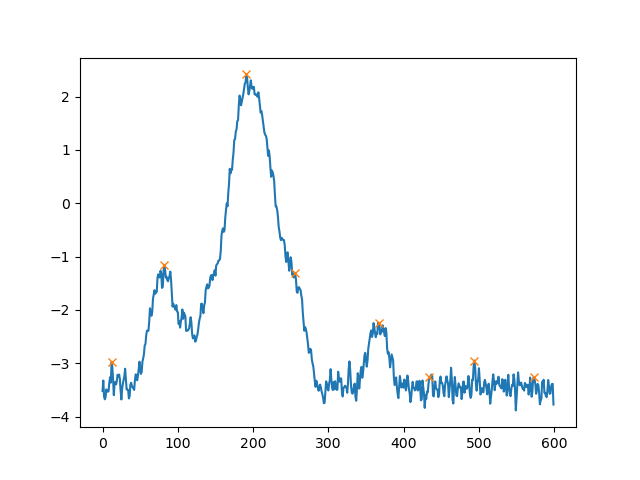
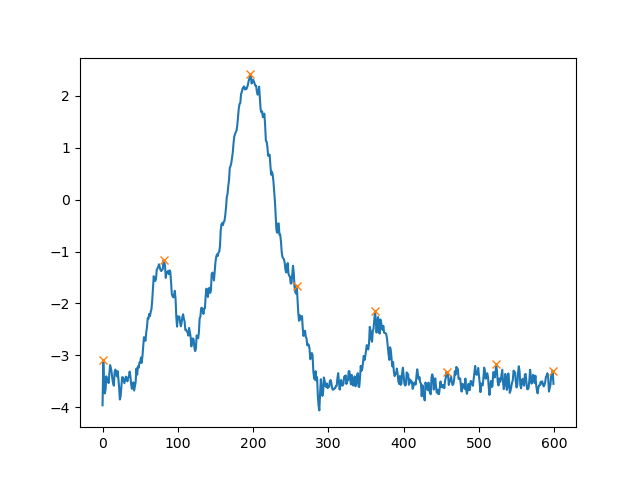
Rematch BDCNN, score 11.60

diff --git a/bdn/backbone.py b/bdn/backbone.py
@@ -16,24 +16,24 @@ class BDCNN(nn.Module):
         if input_sample == 640:
             ## 第一层卷积
             self.conv1 = nn.Sequential(
-                # 输入[1,320,600]
+                # 输入[2,320,600]
                 nn.Conv2d(
                     in_channels=2,    # 输入图片的高度
                     out_channels=64,  # 输出图片的高度
-                    kernel_size=(22,35),    # 16*35的卷积核，相当于过滤器
+                    kernel_size=(22,35),    # 22*35的卷积核，相当于过滤器
                     stride=(10,5),         # 卷积核在图上滑动，每隔个扫一次
                     padding=(6,0),        # 给图外边补上0
                 ),
                 nn.Conv2d(
                     in_channels=64,    # 输入图片的高度
                     out_channels=64,  # 输出图片的高度
-                    kernel_size=(7,15),    # 16*35的卷积核，相当于过滤器
+                    kernel_size=(7,15),    # 7*15的卷积核，相当于过滤器
                     stride=1,         # 卷积核在图上滑动，每隔一个扫一次
                     padding=(2,2),        # 给图外边补上0
                 ),
-                # 经过卷积层 输出[32,32,104] 传入池化层
+                # 经过卷积层 输出[64,30,104] 传入池化层
                 nn.ReLU(),
-                nn.MaxPool2d(kernel_size=(3, 3))   # 经过池化 输出[32,16,52] 传入下一个卷积
+                nn.MaxPool2d(kernel_size=(3, 3))   # 经过池化 输出[64,10,34] 传入下一个卷积
             )
             ## 第二层卷积
             self.conv2 = nn.Sequential(
@@ -49,13 +49,15 @@ class BDCNN(nn.Module):
                     out_channels=256,
                     kernel_size=(3,7),
                     stride=1,
+                    # padding=(0,1)
                     padding=0
                 ),
-                # 经过卷积 输出[64, 14, 44] 传入池化层
+                # 经过卷积 输出[256, 6, 24] 传入池化层
                 nn.ReLU(),
-                nn.MaxPool2d(kernel_size=(1,3))  # 经过池化 输出[64,14,22] 传入输出层
+                nn.MaxPool2d(kernel_size=(1,3))  # 经过池化 输出[256,6,8] 传入输出层
             )
             ## 输出层
+            # self.linear1 = nn.Sequential(nn.Linear(in_features=256*6*8, out_features=8192), 
             self.linear1 = nn.Sequential(nn.Linear(in_features=256*6*7, out_features=8192), 
                                             nn.ReLU(),
                                             nn.Dropout(0.5)
@@ -66,7 +68,7 @@ class BDCNN(nn.Module):
                                             )
             self.linear3 = nn.Linear(in_features=4096, out_features=output_size)
             # softmax输出分类
-            self.softmax = nn.Softmax(dim=1)
+            # self.softmax = nn.Softmax(dim=1)
         else:
             ## 第一层卷积
             self.conv1 = nn.Sequential(
@@ -118,9 +120,133 @@ class BDCNN(nn.Module):
                                             nn.ReLU(),
                                             nn.Dropout(0.5)
                                             )
+            self.linear3 = nn.Linear(in_features=4096, out_features=output_size) # batch_size * output_size
+            # softmax输出分类
+            # self.softmax = nn.Softmax(dim=1)
+
+    def forward(self, x):
+        x = self.conv1(x)
+        x = self.conv2(x)           # [batch, 64,14,22]
+        x = x.view(x.size(0), -1)   # 保留batch, 将后面的乘到一起 [batch, 64*14*22]
+        linear_o1 = self.linear1(x)     # 输出[50,10]
+        linear_o2 = self.linear2(linear_o1)     # 输出[50,10]
+        linear_o3 = self.linear3(linear_o2)     # 输出[50,10]
+        # output = self.softmax(linear_o3) # 输出[50,10]
+        return linear_o3
+
+class BDCNN_ND(nn.Module): # 无dropout
+    def __init__(self, input_sample=640, output_size=600):
+        super(BDCNN_ND, self).__init__()   # 继承__init__功能
+        if input_sample == 640:
+            ## 第一层卷积
+            self.conv1 = nn.Sequential(
+                # 输入[2,320,600]
+                nn.Conv2d(
+                    in_channels=2,    # 输入图片的高度
+                    out_channels=64,  # 输出图片的高度
+                    kernel_size=(22,35),    # 22*35的卷积核，相当于过滤器
+                    stride=(10,5),         # 卷积核在图上滑动，每隔个扫一次
+                    padding=(6,0),        # 给图外边补上0
+                ),
+                nn.Conv2d(
+                    in_channels=64,    # 输入图片的高度
+                    out_channels=64,  # 输出图片的高度
+                    kernel_size=(7,15),    # 7*15的卷积核，相当于过滤器
+                    stride=1,         # 卷积核在图上滑动，每隔一个扫一次
+                    padding=(2,2),        # 给图外边补上0
+                ),
+                # 经过卷积层 输出[64,30,104] 传入池化层
+                nn.ReLU(),
+                nn.MaxPool2d(kernel_size=(3, 3))   # 经过池化 输出[64,10,34] 传入下一个卷积
+            )
+            ## 第二层卷积
+            self.conv2 = nn.Sequential(
+                nn.Conv2d(
+                    in_channels=64,    # 同上
+                    out_channels=128,
+                    kernel_size=(3,7),
+                    stride=1,
+                    padding=0
+                ),
+                nn.Conv2d(
+                    in_channels=128,    # 同上
+                    out_channels=256,
+                    kernel_size=(3,7),
+                    stride=1,
+                    # padding=(0,1)
+                    padding=0
+                ),
+                # 经过卷积 输出[256, 6, 24] 传入池化层
+                nn.ReLU(),
+                nn.MaxPool2d(kernel_size=(1,3))  # 经过池化 输出[256,6,8] 传入输出层
+            )
+            ## 输出层
+            # self.linear1 = nn.Sequential(nn.Linear(in_features=256*6*8, out_features=8192), 
+            self.linear1 = nn.Sequential(nn.Linear(in_features=256*6*7, out_features=8192), 
+                                            nn.ReLU(),
+                                            # nn.Dropout(0.5)
+                                            )
+            self.linear2 = nn.Sequential(nn.Linear(in_features=8192, out_features=4096), 
+                                            nn.ReLU(),
+                                            # nn.Dropout(0.5)
+                                            )
             self.linear3 = nn.Linear(in_features=4096, out_features=output_size)
             # softmax输出分类
-            self.softmax = nn.Softmax(dim=1)
+            # self.softmax = nn.Softmax(dim=1)
+        else:
+            ## 第一层卷积
+            self.conv1 = nn.Sequential(
+                # 输入[1,320,600]
+                nn.Conv2d(
+                    in_channels=2,    # 输入图片的高度
+                    out_channels=64,  # 输出图片的高度
+                    kernel_size=(18,35),    # 16*35的卷积核，相当于过滤器
+                    stride=(4,5),         # 卷积核在图上滑动，每隔个扫一次
+                    padding=(6,0),        # 给图外边补上0
+                ),
+                nn.Conv2d(
+                    in_channels=64,    # 输入图片的高度
+                    out_channels=64,  # 输出图片的高度
+                    kernel_size=(7,15),    # 16*35的卷积核，相当于过滤器
+                    stride=1,         # 卷积核在图上滑动，每隔一个扫一次
+                    padding=(2,2),        # 给图外边补上0
+                ),
+                # 经过卷积层 输出[32,32,104] 传入池化层
+                nn.ReLU(),
+                nn.MaxPool2d(kernel_size=(1, 3))   # 经过池化 输出[32,16,52] 传入下一个卷积
+            )
+            ## 第二层卷积
+            self.conv2 = nn.Sequential(
+                nn.Conv2d(
+                    in_channels=64,    # 同上
+                    out_channels=128,
+                    kernel_size=(3,7),
+                    stride=1,
+                    padding=0
+                ),
+                nn.Conv2d(
+                    in_channels=128,    # 同上
+                    out_channels=256,
+                    kernel_size=(3,7),
+                    stride=1,
+                    padding=(0,1)
+                ),
+                # 经过卷积 输出[64, 14, 44] 传入池化层
+                nn.ReLU(),
+                nn.MaxPool2d(kernel_size=(4,3))  # 经过池化 输出[64,14,22] 传入输出层
+            )
+            ## 输出层
+            self.linear1 = nn.Sequential(nn.Linear(in_features=256*4*8, out_features=8192), 
+                                            nn.ReLU(),
+                                            # nn.Dropout(0.5)
+                                            )
+            self.linear2 = nn.Sequential(nn.Linear(in_features=8192, out_features=4096), 
+                                            nn.ReLU(),
+                                            # nn.Dropout(0.5)
+                                            )
+            self.linear3 = nn.Linear(in_features=4096, out_features=output_size)
+            # softmax输出分类
+            # self.softmax = nn.Softmax(dim=1)
 
     def forward(self, x):
         x = self.conv1(x)

diff --git a/bdn/csi_bd.py b/bdn/csi_bd.py
@@ -17,7 +17,7 @@ import pickle
 from scipy.signal import find_peaks, savgol_filter
 
 # from bdn.loss import NMSE_cuda, NMSELoss, CosSimilarity, rho
-from bdn.backbone import RegLSTM, BDCNN, BDCNNold
+from bdn.backbone import RegLSTM, BDCNN, BDCNNold, BDCNN_ND
 from bdn.data_old import load_data
 from bdn.data import load_data_from_txt, save_data_to_txt
 import matplotlib.pyplot as plt
@@ -133,14 +133,15 @@ class CNN_trainer():
             # train001_180 = './chusai_data/TestData/train_shuffle_loader_stdampfft_stdamp_gaussianlabelsig1_180_nostretch.pkl'
             # train001_180 = './chusai_data/TestData/train_shuffle_loader_stdampfft_stdamp_gaussianlabelsig1_180ronly001_nostretch.pkl'
             # train001_180 = './chusai_data/TestData/train_shuffle_stdampfft_stdamp_indepStdDiffPha_gaussianlabelsig1_180ronly001_nostretch.pkl'
-            train001_180 = './chusai_data/TestData/train_shuffle_stdampfft_nostdamp_indepStdDiffPha_gaussianlabelsig100_180only001_nostretch.pkl'
+            train001_180 = './chusai_data/TestData/train_shuffle_stdampfft_nostdamp_indepStdDiffPha_gaussianlabelsig100_180only001_nostretch.pkl' #best
             # train90320 = './chusai_data/TestData/train_shuffle_loader_stdfft_gaussianlabelsig1_90320.pkl'
             train90320 = './chusai_data/TestData/train_shuffle_loader_stdfft_gaussianlabelsig1_90320_more_reasonable_fftstretch.pkl'
             # train002009_640 = './chusai_data/TestData/train_shuffle_640_colStdAmpFft_stdAmp_gausssig100.pkl'
             # train002009_640 = './chusai_data/TestData/train_shuffle_640_colStdAmpFft_stdAmp_deltaphase_gausssig100.pkl'
             # train002009_640 = './chusai_data/TestData/train_shuffle_640_colStdAmpFft_stdAmp_diffphase_gausssig100.pkl'
-            train002009_640 = './chusai_data/TestData/train_shuffle_640_colStdAmpFft_stdAmp_indepStdDiffPhase_gausssig100.pkl'
-            train_pkl = train001_180
+            train002009_640 = './chusai_data/TestData/train_shuffle_640_colStdAmpFft_stdAmp_indepStdDiffPhase_gausssig100.pkl' # best
+            # train002009_640 = './chusai_data/TestData/train_shuffle_640_colStdAmpFft_stdAmp_indepStdDiffPhase_gausssig25.pkl' # bad
+            train_pkl = train002009_640
             if os.path.exists(train_pkl):
                 print('Loading train_shuffle_loader...')
                 with open(train_pkl, 'rb') as f:
@@ -247,7 +248,12 @@ class CNN_trainer():
                                 # print("cfg['Np'].shape:", cfg['Np'].shape)
                                 # print("cfg['Np']:", cfg['Np'])
                                 # 用find_peaks求output[iBatch]的峰值索引
-                                idx, _ = find_peaks(output[iBatch].cpu().numpy(), distance=3/self.BPMresol)
+                                if self.no_sample % 90 == 0:
+                                    output_sg = savgol_filter(output[iBatch].cpu().numpy(), 5, 3)
+                                    idx, _ = find_peaks(output_sg, distance=6/self.BPMresol) # 3x30场景，复赛间隔6
+                                else:
+                                    output_sg = output[iBatch].cpu().numpy()
+                                    idx, _ = find_peaks(output_sg, distance=3/self.BPMresol)
                                 # 对峰值索引对应的output[iBatch]值进行降序排序
                                 highestPeak = torch.argsort(-output[iBatch][idx]).cpu()
                                 # 获得最高的Np个峰值索引，从而得到呼吸率估计值，转换成tensor
@@ -307,13 +313,15 @@ class CNN_trainer():
                 x_in = x_in.cuda()
                 # x_in = torch.unsqueeze(x_in, 1) # [batch=1, 1, 320, 600]
                 if self.net == "BDCNN":
-                    avg_time = 10
+                    avg_time = 1
                     pred_val_list = []
-                    for iAvg in range(avg_time):
+                    for _ in range(avg_time):
                         output = self.model(x_in).squeeze()
                         if self.no_sample % 90 == 0:
                             output_sg = savgol_filter(output.cpu().numpy(), 5, 3)
-                            idx, _ = find_peaks(output_sg, distance=6/self.BPMresol)
+                            # output_sg = savgol_filter(output.cpu().numpy(), 8, 7) #不如5,3
+                            # output_sg = output.cpu().numpy()
+                            idx, _ = find_peaks(output_sg, distance=6/self.BPMresol) # 3x30场景，复赛间隔6
                             if not os.path.exists('find_peaks_Np3.png') and cfg['Np'] == 3:
                                 plt.figure()
                                 plt.plot(output_sg)
@@ -325,13 +333,24 @@ class CNN_trainer():
                                 plt.plot(idx, output_sg[idx], 'x')
                                 plt.savefig('find_peaks_Np2.png')
                         else:
-                            idx, _ = find_peaks(output.cpu().numpy(), distance=3/self.BPMresol)
+                            output_sg = output.cpu().numpy()
+                            idx, _ = find_peaks(output_sg, distance=3/self.BPMresol)
                         highestPeak = torch.argsort(-output[idx]).cpu()
-                        pred_val = torch.from_numpy(idx[highestPeak][:cfg['Np']] * self.BPMresol)
-                        pred_val = torch.sort(pred_val)[0]
+                        # pred_val = torch.from_numpy(idx[highestPeak][:cfg['Np']] * self.BPMresol)
+                        # pred_val = torch.sort(pred_val)[0]
+                        pred_val = idx[highestPeak][:cfg['Np']] * self.BPMresol
+                        pred_val = np.sort(pred_val)
                         pred_val_list.append(pred_val)
-                    pred_val = torch.mean(torch.stack(pred_val_list), dim=0)
-                else:
+                    if avg_time > 1:
+                        # 控制z-score不会导致性能更好# Calculate the z-score of each array
+                        # z_scores = np.abs((pred_val_list - np.mean(pred_val_list, axis=0)) / np.std(pred_val_list))
+                        # if cfg['Np'] == 3:
+                        #     print("pred_val_list:", pred_val_list)
+                        #     print("z_scores:", z_scores)
+                        # # Remove arrays with a z-score greater than 3
+                        # pred_val_list = [pred_val_list[i] for i in range(len(pred_val_list)) if np.max(z_scores[i]) < 1]
+                        pred_val = np.mean(pred_val_list, axis=0)
+                else: # 无dropout，不取平均
                     output = self.model(x_in).squeeze()
                     # pred_val = (torch.argsort(-output)[:, :cfg['Np']] * self.BPMresol).cpu()
                     # pred_val = torch.sort(pred_val, dim=1)[0]

diff --git a/bdn/data.py b/bdn/data.py
@@ -45,13 +45,15 @@ class BreathDataset(Dataset):
         self.gt_pd = []
         self.Cfg = []
         if no_sample % 90 == 0:
-            if Round == 2:
+            if Round == 3:
+                names = [self.names[0], self.names[3], self.names[4]]
+            elif Round == 2:
                 names = [self.names[0], self.names[3]]
             else:
                 # names = [self.names[0], self.names[9]]
                 names = [self.names[0]]
         elif no_sample % 320 == 0:
-            if Round == 2:
+            if Round == 3 or Round == 2:
                 names = self.names[1:3]
             else:
                 names = self.names[1:9]
@@ -169,7 +171,7 @@ class BreathDataset(Dataset):
                 # 生成标签数据，是cfg['gt']的概率的类one-hot编码
                 if self.round == 0:
                     gt_pd = np.zeros(noBpmPoints)
-                    sigma2 = 1 / BPMresol ** 2
+                    sigma2 = (1 / BPMresol ** 2)
                     x = np.arange(noBpmPoints)
                     for p in range(cfg['Np']):
                         # gt所有值的高斯分布叠加作为label

diff --git a/NNtrain.py b/NNtrain.py
@@ -45,7 +45,7 @@ def train_CNN():
     # print("compressed codeword bits: {}".format(bits))
     train_now = False
     # train_now = True
-    no_sample = 180
+    no_sample = 640 # 180对应3x30场景，640对应4x80场景
     if no_sample == 90:
         batch_size = 34
     elif no_sample == 180:
@@ -70,8 +70,11 @@ def train_CNN():
         agent3.model_train()
         agent3.model_save()
     else:
-        agent3.model_load("breath_detect/model_save/2023-06-24_09-52-56-sc14p45-3x30-noStdAmp-indepStdPha/BDCNN_2023-06-24_09-52-56.pkl")
-    agent3.model_predict(Ridx=2)
+        if no_sample == 180:
+            agent3.model_load("breath_detect/model_save/2023-06-24_09-52-56-sc14p45-3x30-noStdAmp-indepStdPha/BDCNN_2023-06-24_09-52-56.pkl")
+        elif no_sample == 640:
+            agent3.model_load("breath_detect/model_save/2023-06-23_14-20-22sc14p95-idepStdDiffPhase-4x80-ep160/BDCNN_2023-06-23_14-20-22.pkl")
+    agent3.model_predict(Ridx=3)
     # print("BDCNN")
     # print(agent3_loss)
     # print("average time used is:", t3)

diff --git a/README.md b/README.md
@@ -13,7 +13,9 @@
 └── README.md
 ```
 
-呼吸 BPM 为 10~40，即 *0.16~0.66 Hz*，不算婴儿则为 10~30，即 *0.16~0.5 Hz*
+呼吸 BPM 为 10\~40，即 *0.16~0.66 Hz*，不算婴儿则为 10\~30，即 *0.16~0.5 Hz*
+
+题目约定 BPM $\in [5, 50]$，即 *0.08~0.83 Hz*
 
 ## 数据格式
 
@@ -22,12 +24,12 @@
 这里指的是 `SampleSet.Cfg`
 
 - `Nsamp`：样本数，`int`
-- `Np`：各样本所含人数，`int[Nsamp]`
+- `Np`：各样本所含人数，`int[Nsamp]`，<=3
 - `Ntx`：发射天线数，固定为1
 - `Nrx`：接收天线数，`int`
 - `Nsc`：子载波数，`int`
 - `Nt`：各样本时域测量次数，`int[Nsamp]`
-- `Tdur`：各样本信号采集持续时间（秒），`int[Nsamp]`
+- `Tdur`：各样本信号采集持续时间（秒），`int[Nsamp]`，30~60
 - `fstart`：第一个子载波中心频率（MHz），`float`
 - `fend`：最后一个子载波中心频率（MHz），`float`
 
